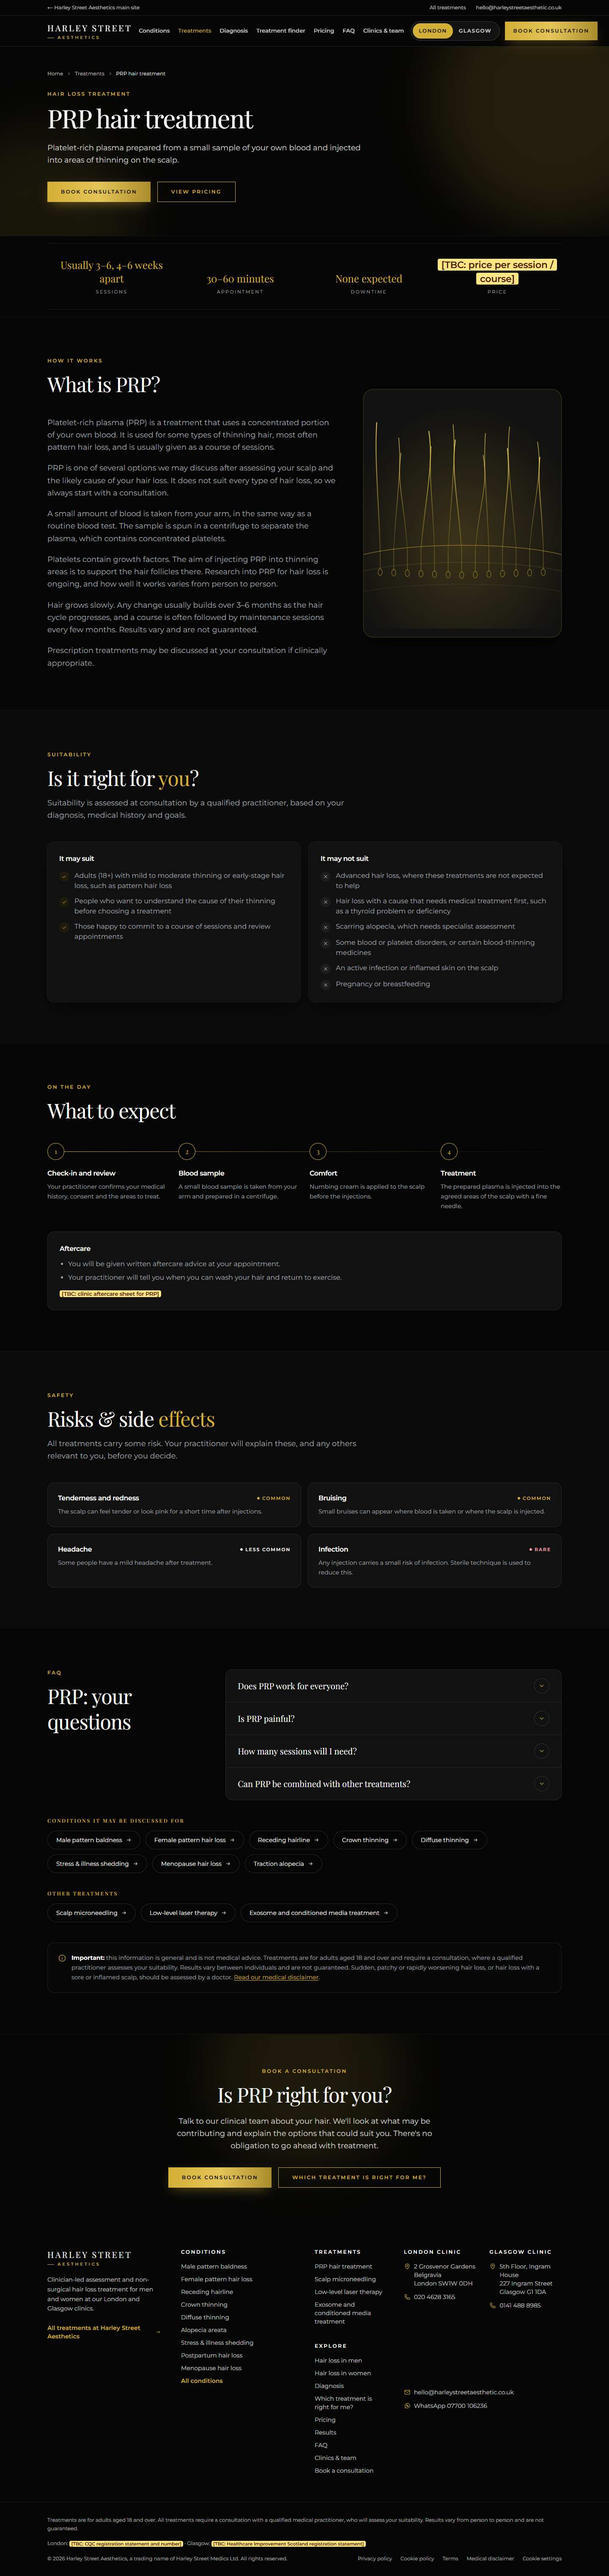
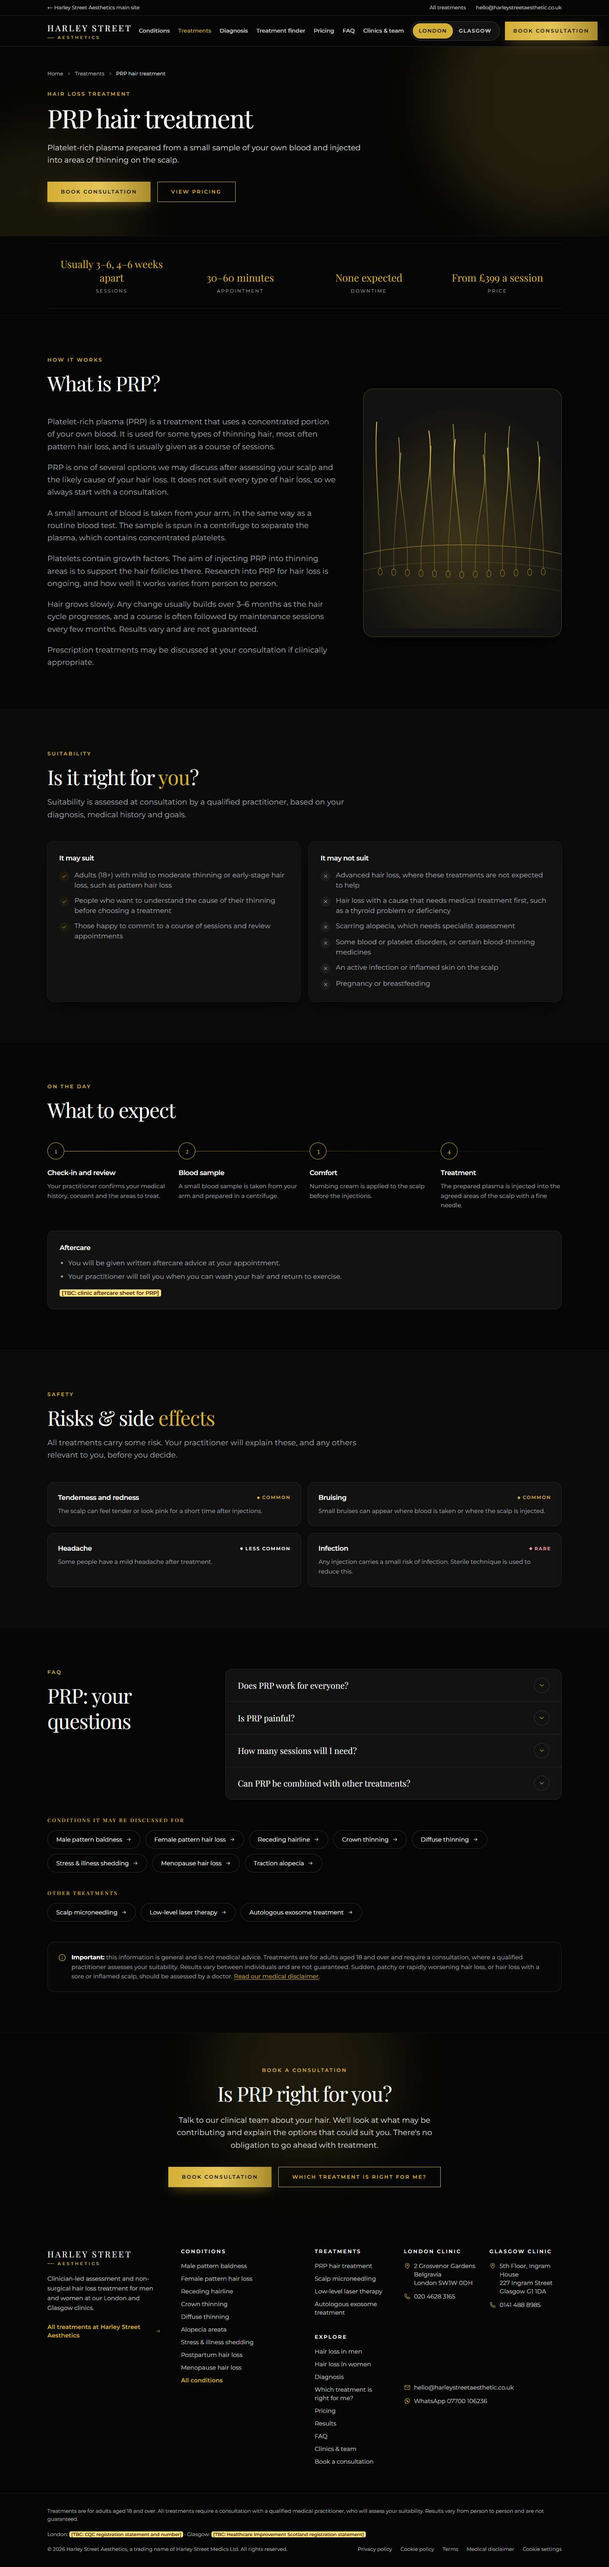
Add hair loss prices from the Harley Street Medical Wellness website
PRP, Virtue PRP, autologous exosomes and Virtue exosomes prices (same in London and Glasgow). Rename exosome page to autologous exosome treatment, remove cell-conditioned media, update docs. Placeholders 35 -> 32.

diff --git a/src/lib/treatments.ts b/src/lib/treatments.ts
@@ -26,8 +26,12 @@ export type Treatment = {
   risks: Risk[];
   evidenceNote?: string;
   faqs: Faq[];
-  priceTbc: string;
+  /** Published prices (Harley Street Medical Wellness pricing page, "PRP & Autologous Exosomes for Hair", 3 Nov 2026). */
+  prices?: { option: string; single: string; course: string }[];
+  priceTbc?: string;
 };
+
+export const VIRTUE_TBC = "what the Virtue option involves";
 
 export const TREATMENTS: Treatment[] = [
   {
@@ -52,7 +56,7 @@ export const TREATMENTS: Treatment[] = [
       { label: "Sessions", value: "Usually 3–6, 4–6 weeks apart" },
       { label: "Appointment", value: "30–60 minutes" },
       { label: "Downtime", value: "None expected" },
-      { label: "Price", tbc: "price per session / course" },
+      { label: "Price", value: "From £399 a session" },
     ],
     maySuit: [
       "Adults (18+) with mild to moderate thinning or early-stage hair loss, such as pattern hair loss",
@@ -102,7 +106,10 @@ export const TREATMENTS: Treatment[] = [
         a: "Sometimes. Depending on the cause of your hair loss, your practitioner may discuss combining treatments. Prescription treatments may be discussed at your consultation if clinically appropriate.",
       },
     ],
-    priceTbc: "PRP price per session and course",
+    prices: [
+      { option: "PRP therapy", single: "£399", course: "£1,099" },
+      { option: "Virtue PRP therapy", single: "£599", course: "£1,599" },
+    ],
   },
   {
     slug: "scalp-microneedling",
@@ -126,7 +133,7 @@ export const TREATMENTS: Treatment[] = [
       { label: "Device", tbc: "microneedling device used on the scalp" },
       { label: "Sessions", value: "Usually 3–6, 4–6 weeks apart" },
       { label: "Downtime", value: "None expected" },
-      { label: "Price", tbc: "price per session / course" },
+      { label: "Price", tbc: "scalp microneedling price (not listed separately; may be part of the Virtue options)" },
     ],
     maySuit: [
       "Adults (18+) with mild to moderate thinning, such as pattern hair loss",
@@ -168,7 +175,7 @@ export const TREATMENTS: Treatment[] = [
         a: "Sometimes. Your practitioner may suggest combining treatments if they think it is appropriate for your diagnosis.",
       },
     ],
-    priceTbc: "scalp microneedling price",
+    priceTbc: "scalp microneedling price (not listed separately; may be part of the Virtue options)",
   },
   {
     slug: "low-level-laser-therapy",
@@ -230,27 +237,27 @@ export const TREATMENTS: Treatment[] = [
   },
   {
     slug: "exosome-hair-treatment",
-    name: "Exosome and conditioned media treatment",
+    name: "Autologous exosome treatment",
     shortName: "Exosomes",
     icon: "cell",
     summary:
-      "Regenerative options (exosomes or cell-conditioned media) for the scalp. Evidence is still developing, and we'll explain what is and isn't known.",
+      "Exosomes prepared from your own blood (autologous) and used on the scalp. Evidence is still developing, and we'll explain what is and isn't known.",
     metaTitle: "Exosome Hair Treatment: An Honest Guide",
     metaDescription:
-      "Exosome and cell-conditioned media scalp treatments are newer approaches to thinning hair, and the evidence is still developing. Learn what they involve and discuss them at a consultation.",
+      "Autologous exosome hair treatment in London and Glasgow, from £599 a session. A newer approach where evidence is still developing. Learn what it involves and discuss it at a consultation.",
     intro: [
-      "Exosomes are tiny particles that cells release to send signals to other cells. Cell-conditioned media is a related product containing substances released by cells grown in a laboratory. Both are being explored in aesthetic medicine, including for thinning hair.",
+      "Exosomes are tiny particles that cells release to send signals to other cells. Autologous means they are prepared from your own blood, as with PRP. Exosome treatments are being explored in aesthetic medicine, including for thinning hair.",
       "This is a newer approach and the evidence is still developing. We won't recommend it in place of treatments that have more evidence for your type of hair loss, and we'll explain what is known and what isn't before you decide.",
     ],
     howItWorks: [
-      "These products are applied to the scalp, often alongside microneedling, or injected. The idea is that the signals they carry may support the scalp and hair follicles.",
-      "There is not yet enough high-quality research to say how well this works for hair loss or for whom. Your practitioner will talk you through the product used and its status.",
+      "A blood sample is taken and prepared, and the exosome preparation is then injected into, or applied to, the agreed areas of the scalp. The idea is that the signals exosomes carry may support the scalp and hair follicles.",
+      "There is not yet enough high-quality research to say how well this works for hair loss or for whom. Your practitioner will talk you through how the preparation is made and what is known.",
     ],
     facts: [
-      { label: "Options", value: "Exosomes or cell-conditioned media" },
+      { label: "Source", value: "Your own blood (autologous)" },
       { label: "Sessions", value: "Usually 3–6, 4–6 weeks apart" },
       { label: "Downtime", value: "None expected" },
-      { label: "Price", tbc: "exosome treatment price" },
+      { label: "Price", value: "From £599 a session" },
     ],
     maySuit: [
       "Adults (18+) with thinning hair who have had a full assessment",
@@ -261,18 +268,20 @@ export const TREATMENTS: Treatment[] = [
       "Hair loss with an untreated medical cause",
       "Scarring alopecia, which needs specialist assessment",
       "Active scalp infection or inflamed scalp skin",
+      "Some blood or platelet disorders, or certain blood-thinning medicines",
       "Pregnancy or breastfeeding",
     ],
     onTheDay: [
-      { title: "Check-in and consent", text: "Your practitioner goes through the product, the evidence and the risks with you." },
-      { title: "Preparation", text: "The scalp is cleansed and comfort options are discussed." },
-      { title: "Treatment", text: "The product is applied, often with microneedling, to the agreed areas." },
+      { title: "Check-in and consent", text: "Your practitioner goes through the treatment, the evidence and the risks with you." },
+      { title: "Blood sample", text: "A small blood sample is taken from your arm and prepared." },
+      { title: "Comfort", text: "The scalp is cleansed and numbing cream is applied." },
+      { title: "Treatment", text: "The preparation is injected into, or applied to, the agreed areas of the scalp." },
     ],
     aftercare: ["You will be given written aftercare advice at your appointment."],
     aftercareTbc: "clinic aftercare sheet for exosome treatment",
     risks: [
-      { name: "Redness and tenderness", level: "Common", text: "Mostly related to the microneedling or injections used to apply the product." },
-      { name: "Irritation or reaction", level: "Less common", text: "Any product applied to the skin can cause irritation or an allergic reaction." },
+      { name: "Redness and tenderness", level: "Common", text: "The scalp can feel tender or look pink for a short time after treatment." },
+      { name: "Bruising", level: "Common", text: "Small bruises can appear where blood is taken or where the scalp is injected." },
       { name: "Infection", level: "Rare", text: "Any treatment that breaks the skin carries a small risk of infection." },
     ],
     evidenceNote:
@@ -284,10 +293,13 @@ export const TREATMENTS: Treatment[] = [
       },
       {
         q: "Where do the exosomes come from?",
-        a: "This depends on the product. Your practitioner will tell you exactly which product is used, where it comes from and its regulatory status before you decide.",
+        a: "They are autologous, which means they are prepared from a sample of your own blood. Your practitioner will explain how the preparation is made before you decide.",
       },
     ],
-    priceTbc: "exosome treatment price",
+    prices: [
+      { option: "Autologous exosomes therapy", single: "£599", course: "£1,599" },
+      { option: "Virtue exosomes therapy", single: "£799", course: "£1,899" },
+    ],
   },
 ];
 

diff --git a/src/app/pricing/page.tsx b/src/app/pricing/page.tsx
@@ -3,7 +3,7 @@ import { CtaBand } from "@/components/sections";
 import { CheckList, Disclaimer, PageHero, Section, SectionHeading, Tbc } from "@/components/ui";
 import { pageMetadata } from "@/lib/seo";
 import { BRAND, CONSULTATIONS } from "@/lib/site";
-import { TREATMENTS } from "@/lib/treatments";
+import { TREATMENTS, VIRTUE_TBC } from "@/lib/treatments";
 
 export const metadata = pageMetadata({
   title: "Hair Loss Treatment Prices",
@@ -62,19 +62,45 @@ export default function PricingPage() {
                   {CONSULTATIONS.inClinic.time}. {CONSULTATIONS.inClinic.detail}
                 </td>
               </tr>
-              {TREATMENTS.map((t) => (
-                <tr key={t.slug}>
-                  <th scope="row" className="p-5 font-serif text-lg font-normal text-cream">
-                    <Link href={`/treatments/${t.slug}/`} className="hover:text-gold">
-                      {t.name}
-                    </Link>
-                  </th>
-                  <td className="p-5">
-                    <Tbc>{t.priceTbc}</Tbc>
-                  </td>
-                  <td className="p-5 text-sm text-stone">Number of sessions agreed at consultation</td>
-                </tr>
-              ))}
+              {TREATMENTS.flatMap((t) =>
+                t.prices
+                  ? t.prices.map((p) => (
+                      <tr key={p.option}>
+                        <th scope="row" className="p-5 font-serif text-lg font-normal text-cream">
+                          <Link href={`/treatments/${t.slug}/`} className="hover:text-gold">
+                            {p.option}
+                          </Link>
+                        </th>
+                        <td className="p-5 text-cream">
+                          {p.single} <span className="text-sm text-stone">per session</span>
+                          <br />
+                          {p.course} <span className="text-sm text-stone">for a course of 3</span>
+                        </td>
+                        <td className="p-5 text-sm text-stone">
+                          Number of sessions agreed at consultation.
+                          {p.option.startsWith("Virtue") && (
+                            <>
+                              {" "}
+                              <Tbc>{VIRTUE_TBC}</Tbc>
+                            </>
+                          )}
+                        </td>
+                      </tr>
+                    ))
+                  : [
+                      <tr key={t.slug}>
+                        <th scope="row" className="p-5 font-serif text-lg font-normal text-cream">
+                          <Link href={`/treatments/${t.slug}/`} className="hover:text-gold">
+                            {t.name}
+                          </Link>
+                        </th>
+                        <td className="p-5">
+                          <Tbc>{t.priceTbc}</Tbc>
+                        </td>
+                        <td className="p-5 text-sm text-stone">Number of sessions agreed at consultation</td>
+                      </tr>,
+                    ],
+              )}
               <tr>
                 <th scope="row" className="p-5 font-serif text-lg font-normal text-cream">
                   Blood tests
@@ -88,7 +114,7 @@ export default function PricingPage() {
           </table>
         </div>
         <p className="mt-4 text-sm text-stone">
-          London and Glasgow prices: <Tbc>confirm whether prices are the same at both clinics</Tbc>
+          Prices are the same at our London and Glasgow clinics. Your plan and its cost are confirmed at consultation.
         </p>
       </Section>
       <Section tone="soft" labelledBy="how-title">

diff --git a/src/app/page.tsx b/src/app/page.tsx
@@ -3,7 +3,7 @@ import { ConditionCard, FaqAccordion, StepTimeline, TreatmentCard } from "@/comp
 import { FollicleArt } from "@/components/FollicleArt";
 import { Icon } from "@/components/Icon";
 import { ClinicsSection, CtaBand, ResultsPlaceholder, ReviewsSection, TeamGrid } from "@/components/sections";
-import { Button, CheckList, Disclaimer, JsonLd, Section, SectionHeading, Tbc } from "@/components/ui";
+import { Button, CheckList, Disclaimer, JsonLd, Section, SectionHeading } from "@/components/ui";
 import { CONDITIONS, DIAGNOSIS_STEPS, PATTERNS, RX_SENTENCE } from "@/lib/conditions";
 import { GENERAL_FAQS } from "@/lib/faqs";
 import { clinicsSchema, consultationSchema, faqSchema, treatmentsListSchema } from "@/lib/schema";
@@ -183,7 +183,8 @@ export default function Home() {
             <CheckList
               items={[
                 <>Consultation: free online (15 minutes) or £195 in clinic (30 minutes, redeemable against treatment)</>,
-                <>PRP: <Tbc>price per session / course</Tbc></>,
+                <>PRP: from £399 a session, or £1,099 for a course of 3</>,
+                <>Autologous exosomes: from £599 a session, or £1,599 for a course of 3</>,
                 <>Finance: Klarna, Clearpay and Ideal4Finance options, subject to status (18+, UK residents)</>,
               ]}
             />

diff --git a/src/lib/faqs.ts b/src/lib/faqs.ts
@@ -11,7 +11,7 @@ export const GENERAL_FAQS: Faq[] = [
   },
   {
     q: "Which treatments do you offer?",
-    a: "Depending on your diagnosis, options we may discuss include PRP, scalp microneedling and low-level laser therapy. We also discuss regenerative options such as exosomes and cell-conditioned media, where evidence is still developing. Prescription treatments may be discussed at your consultation if clinically appropriate.",
+    a: "Depending on your diagnosis, options we may discuss include PRP, scalp microneedling and low-level laser therapy. We also offer autologous exosome treatment, prepared from your own blood, where evidence is still developing. Prescription treatments may be discussed at your consultation if clinically appropriate.",
   },
   {
     q: "Can you guarantee my hair will grow back?",
